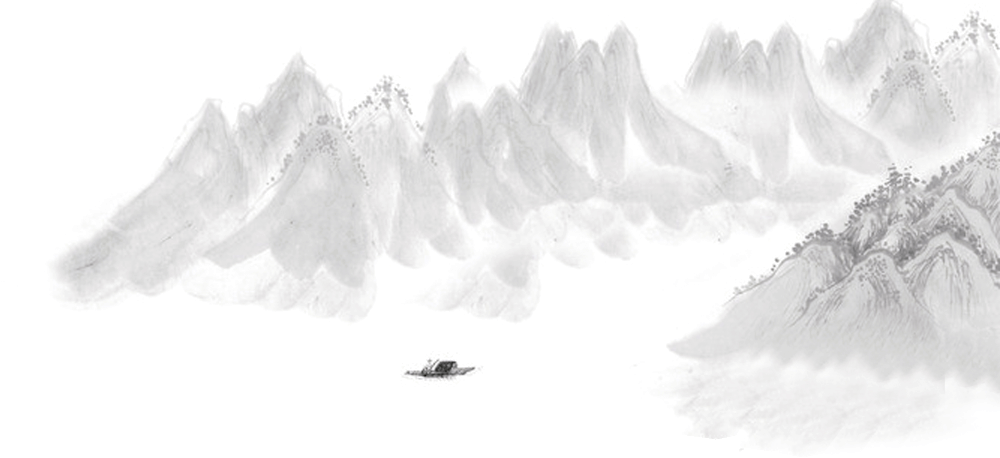
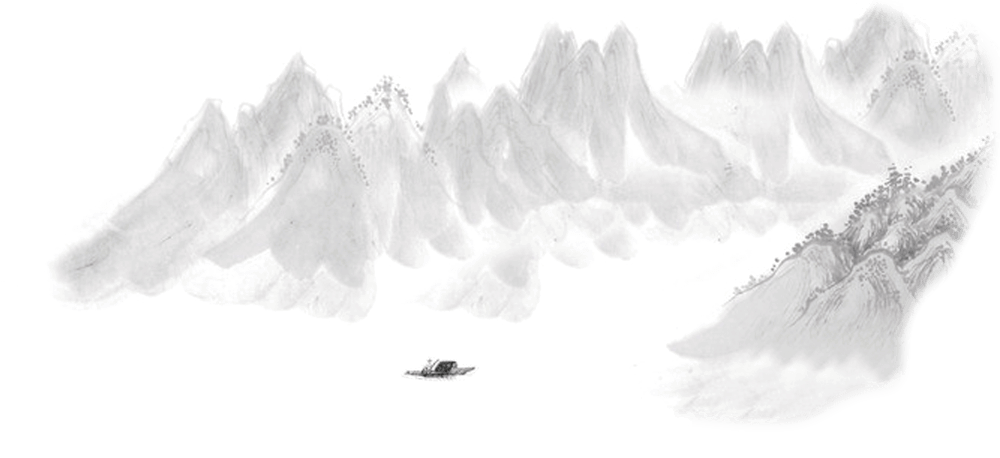
update

Changed region(s): [[0.899, 0.2751, 1.0, 0.8559], [0.961, 0.0306, 1.0, 0.1223], [0.868, 0.0, 0.899, 0.0306]]

diff --git a/style.css b/style.css
@@ -45,6 +45,3 @@ div.examples > div a:first-child:hover img {transform: scale(1.05);}
     main::after, main::before {height: 0.5rem;}
     footer {padding-bottom: 2rem;}
 }
-@media only screen and (min-width: 125rem) { 
-    body {background: url('assets/images/mountains.png') left calc(100% - 3rem) / 40rem auto no-repeat, url('assets/images/mountains2.png') calc(100% + 7rem) bottom / 50rem auto no-repeat, url("assets/images/bedge-grunge.png");}
-}
